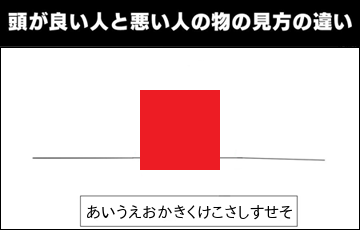
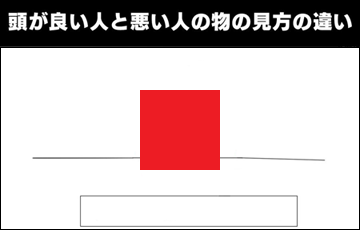
font file path fix

Changed region(s): [[0.2444, 0.8826, 0.6722, 0.9739], [0.7028, 0.8826, 0.825, 0.9435], [0.6722, 0.9435, 0.7028, 0.9739]]

diff --git a/banana/app/Http/Controllers/BananaController.php b/banana/app/Http/Controllers/BananaController.php
@@ -35,7 +35,7 @@ class BananaController extends Controller
     private function this_theme($theme, $obj) {
         $img = \Image::make('img/theme.png');
         $img->text($theme, 190, 220, function($font) {
-            $font->file(public_path('fonts\ipagp.ttf'));
+            $font->file(public_path('fonts/ipagp.ttf'));
             $font->size(16);
             $font->align('center');
             $font->color('#000000');
@@ -108,7 +108,7 @@ class BananaController extends Controller
 
             // back img on smart think
             $img->text($value, $wt, $ht, function($font) use ($size){
-                $font->file(public_path('fonts\ipagp.ttf'));
+                $font->file(public_path('fonts/ipagp.ttf'));
                 $font->size($size);
                 $font->align('center');
                 $font->color('#000000');
@@ -140,7 +140,7 @@ class BananaController extends Controller
 
         foreach ($stupid_arr as $str) {
             $img->text($str, $wh, $ht, function($font) {
-                $font->file(public_path('fonts\iori_font.ttf'));
+                $font->file(public_path('fonts/iori_font.ttf'));
                 $font->size(125);
                 $font->color('#000000');
             });
